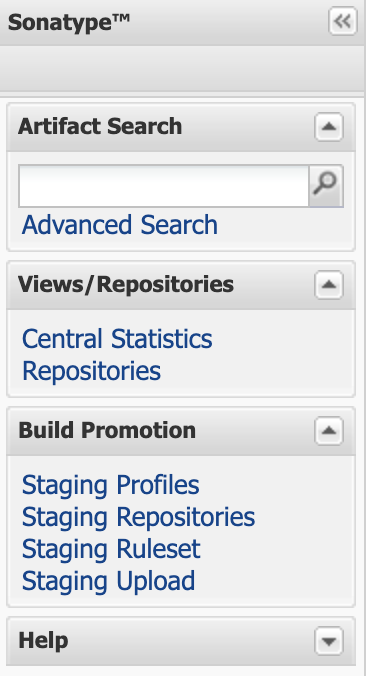
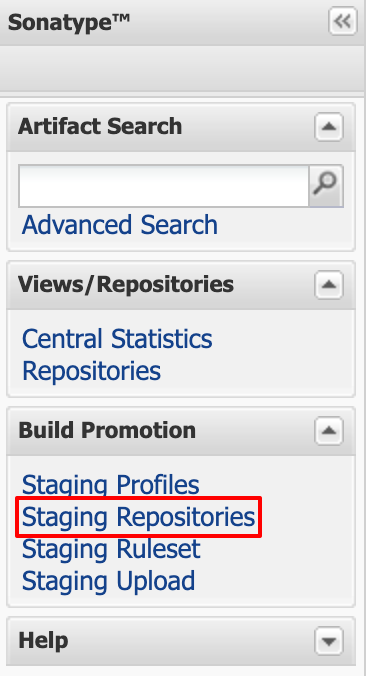
Publish new article

Changed region(s): [[0.0301, 0.7145, 0.7213, 0.8077]]

diff --git a/content/posts/2021/move-libray-jcenter-to-maven.md b/content/posts/2021/move-libray-jcenter-to-maven.md
@@ -1,9 +1,8 @@
 ---
 layout: post
 title:  "Migrating old artifacts from JCenter to MavenCentral"
-date:   2021-02-09
+date:   2021-02-11
 show_in_homepage: false 
-draft: true
 tags: [Android]
 ---
 
@@ -59,7 +58,7 @@ Now, it’s time to upload the artifacts. Login on [Sonatype](https://oss.sonaty
 
 First of all, in the *Staging Upload* section, it is necessary to upload the *pom* file.
 
-// select upload mode Artifact(s) with a pom in the dropdown window
+Switch the upload mode to *Artifact(s) with a pom* in the dropdown window and then select to *pom* to upload.
 
 {{< figure src="/img/move-libray-jcenter-to-maven/add-pom.png" link="/img/move-libray-jcenter-to-maven/add-pom.png" >}}
 
@@ -73,15 +72,13 @@ After adding all the artifacts, upload them with the *Upload Artifact(s)* button
  
 {{< figure src="/img/move-libray-jcenter-to-maven/add-artifacts.png" link="/img/move-libray-jcenter-to-maven/add-artifacts.png" >}}
 
-// it happens that the upload is stuck. progress bar at the infinite.
+It could happen the the upload is stuck and the progress bar never goes away. If it happens, reload the page and redo the process (I’ve noticed that it can happen when the browser tab is open for a while).
 
-// After success, go to the stagin repository section and now the process is the same as upload from android studio, except for the fact that the close task is started automatically
-
+After the upload is successful, select *Staging Repositories* from the left menu. 
 
 {{< figure src="/img/move-libray-jcenter-to-maven/staging-repo.png" link="/img/move-libray-jcenter-to-maven/staging-repo.png" >}}
 
-
-After uploading the artifacts, the close task starts automatically (if it not starts, you can start it manually from the top bar). 
+Now, the process is the same as when the artifacts are upload from Android Studio (or from the CI). The only exception is that the close task is started automatically (if it not starts, you can start it manually from the top bar). 
 
 {{< figure src="/img/move-libray-jcenter-to-maven/wait-close.png" link="/img/move-libray-jcenter-to-maven/wait-close.png" >}}
 

diff --git a/content/posts/2019/publish-librery-android.md b/content/posts/2019/publish-librery-android.md
@@ -4,9 +4,31 @@ title:  "How to publish and distribute your Android library"
 date:   2019-05-28
 images:
   - https://miro.medium.com/max/1400/0*6Th4syvZgyIhhACo
-show_in_homepage: true
+show_in_homepage: false
 tags: [Android]
 ---
+
+
+## Update - February 2021
+
+As you may have heard, JCenter is shutting down in May 2021.
+
+> Into the Sunset on May 1st: Bintray, JCenter, GoCenter, and ChartCenter  
+> https://jfrog.com/blog/into-the-sunset-bintray-jcenter-gocenter-and-chartcenter/
+
+So, this tutorial is no longer recommended because it explains how to publish an Android library to JCenter. 
+ 
+I suggested you follow this guide written by Márton Braun.
+
+> Publishing Android libraries to MavenCentral in 2021
+> https://getstream.io/blog/publishing-libraries-to-mavencentral-2021/
+
+If you have already published a library on JCenter and you want to migrate the old artifacts to MavenCentral, you can follow the guide that I’ve written:
+
+> Migrating old artifacts from JCenter to MavenCentral
+> https://www.marcogomiero.com/posts/2021/move-libray-jcenter-to-maven/
+
+## Original Article: 
 
 You have just built an awesome Android library but you don’t know how to publish it? You are in the right place; in this article, I will explain to you the process that I use to publish my two libraries.
 
